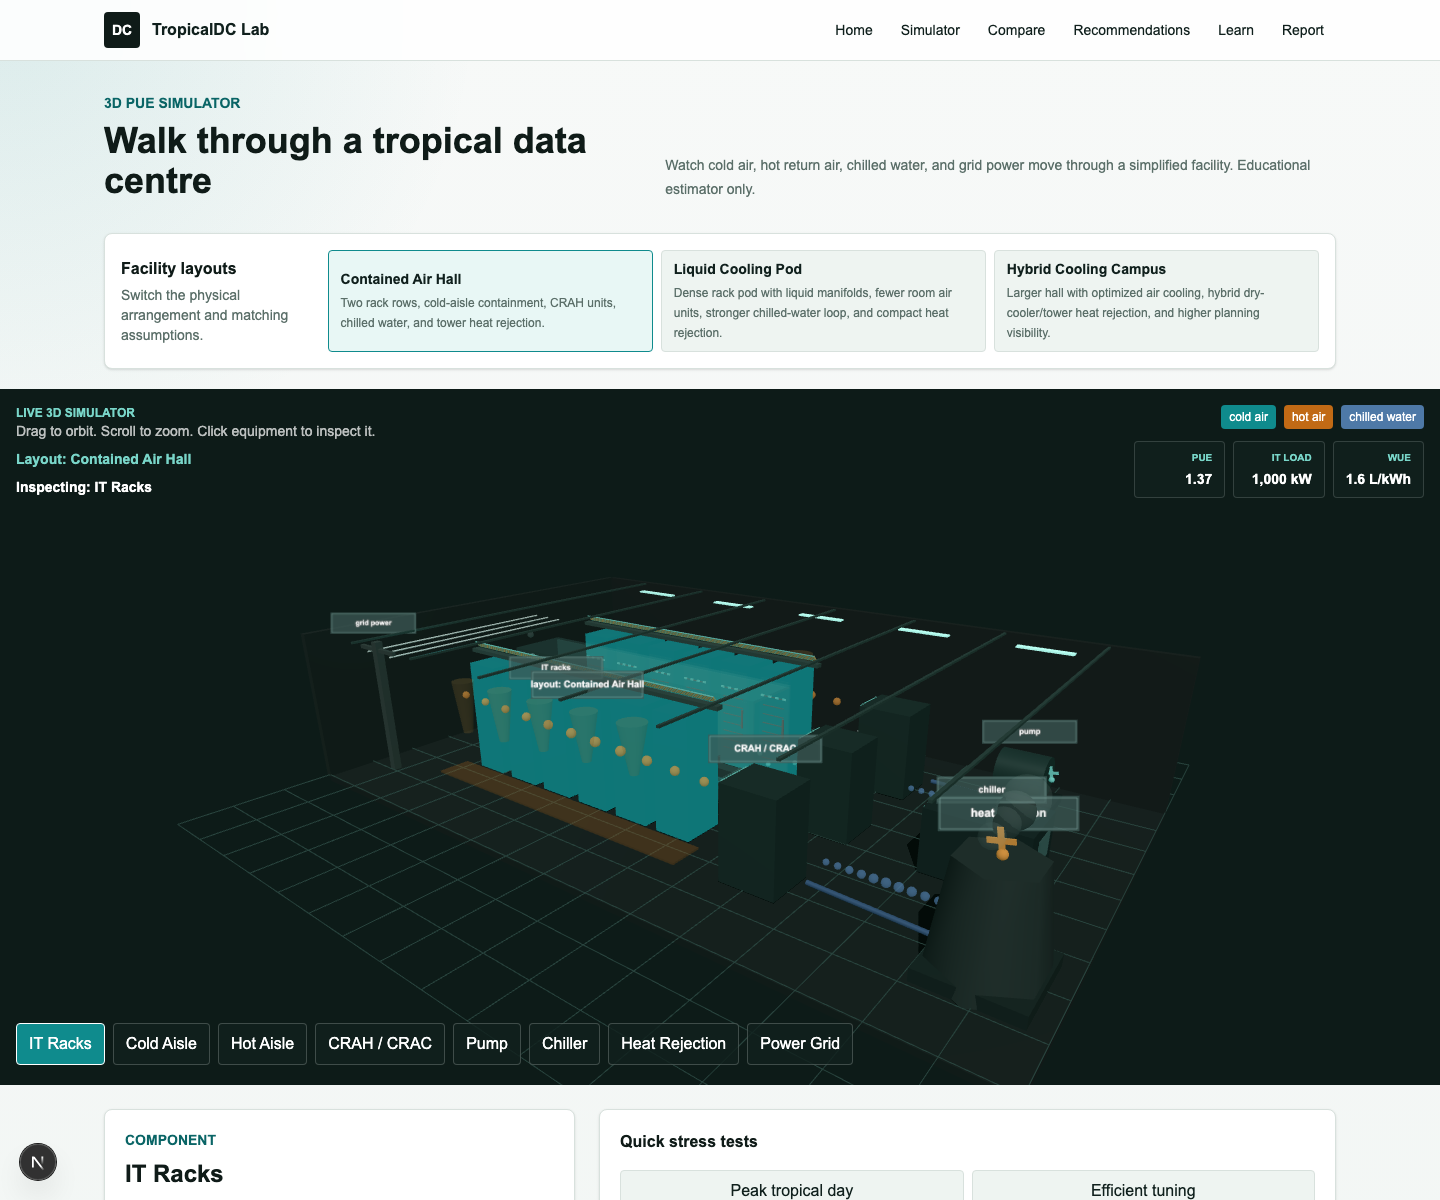
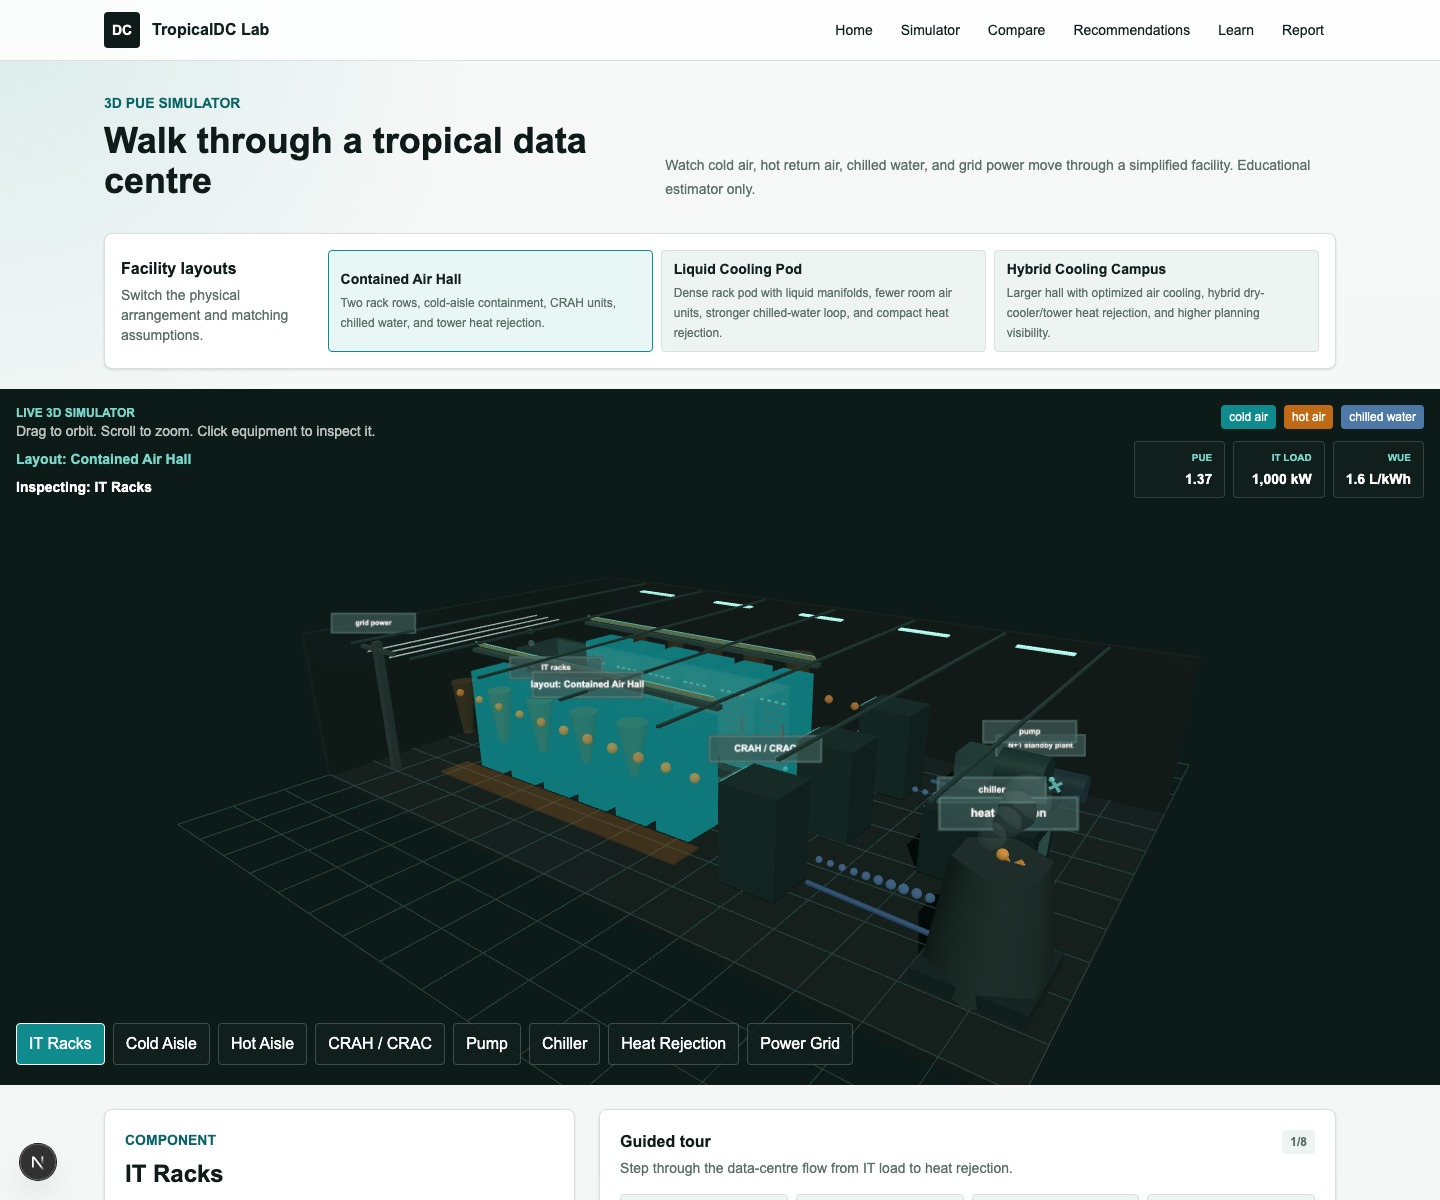
feat: add guided tour and parameter-driven geometry

diff --git a/components/simulator/DataCenter3DScene.tsx b/components/simulator/DataCenter3DScene.tsx
@@ -24,6 +24,8 @@ interface FlowParticle {
   kind: "cold" | "hot" | "water";
 }
 
+type GeometryInputs = Pick<SimulationInputs, "coolingType" | "rackDensityKw" | "redundancyLevel">;
+
 export type DataCenterLayoutKey = "contained_air_hall" | "liquid_cooling_pod" | "hybrid_cooling_campus";
 
 export const dataCenterLayouts: {
@@ -54,6 +56,7 @@ export function DataCenter3DScene({ activeKey, inputs, layoutKey, outputs, onSel
   const activeKeyRef = useRef(activeKey);
   const inputsRef = useRef(inputs);
   const outputsRef = useRef(outputs);
+  const { coolingType, rackDensityKw, redundancyLevel } = inputs;
 
   useEffect(() => {
     onSelectRef.current = onSelect;
@@ -68,6 +71,7 @@ export function DataCenter3DScene({ activeKey, inputs, layoutKey, outputs, onSel
       return;
     }
     const layout = dataCenterLayouts.find((item) => item.key === layoutKey) ?? dataCenterLayouts[0];
+    const geometryInputs: GeometryInputs = { coolingType, rackDensityKw, redundancyLevel };
 
     const scene = new THREE.Scene();
     scene.background = new THREE.Color(0x0d1b18);
@@ -116,10 +120,10 @@ export function DataCenter3DScene({ activeKey, inputs, layoutKey, outputs, onSel
     };
 
     buildRoom(scene, layoutKey);
-    buildRackRows(scene, register, layoutKey);
+    buildRackRows(scene, register, layoutKey, geometryInputs);
     buildAisles(scene, register, thermalPlumes, layoutKey);
-    buildCoolingUnits(scene, register, fans, layoutKey);
-    buildPlant(scene, register, fans, layoutKey);
+    buildCoolingUnits(scene, register, fans, layoutKey, geometryInputs);
+    buildPlant(scene, register, fans, layoutKey, geometryInputs);
     buildGrid(scene, register, pulses);
     buildFlow(scene, flowParticles, layoutKey);
     buildLoopPipes(scene, layoutKey);
@@ -268,7 +272,7 @@ export function DataCenter3DScene({ activeKey, inputs, layoutKey, outputs, onSel
       });
       mount.removeChild(renderer.domElement);
     };
-  }, [layoutKey]);
+  }, [coolingType, rackDensityKw, redundancyLevel, layoutKey]);
 
   const activeComponent = schematicComponents.find((component) => component.key === activeKey) ?? schematicComponents[0];
 
@@ -440,37 +444,46 @@ function buildRoom(scene: THREE.Scene, layoutKey: DataCenterLayoutKey) {
   }
 }
 
-function buildRackRows(scene: THREE.Scene, register: (object: THREE.Object3D, key: ComponentKey) => void, layoutKey: DataCenterLayoutKey) {
+function buildRackRows(
+  scene: THREE.Scene,
+  register: (object: THREE.Object3D, key: ComponentKey) => void,
+  layoutKey: DataCenterLayoutKey,
+  inputs: GeometryInputs,
+) {
   const rackGroup = new THREE.Group();
   const rackMaterial = new THREE.MeshStandardMaterial({ color: 0x111f1d, roughness: 0.45, metalness: 0.4 });
   const doorMaterial = new THREE.MeshStandardMaterial({ color: 0x233834, roughness: 0.35, metalness: 0.55 });
   const ledMaterial = new THREE.MeshStandardMaterial({ color: 0x79d6c9, emissive: 0x0f8b8d, emissiveIntensity: 0.5 });
+  const densityRatio = THREE.MathUtils.clamp(inputs.rackDensityKw / 50, 0.1, 1);
+  const rackHeight = 2.1 + densityRatio * 0.72;
+  const rackDepth = inputs.coolingType === "direct_to_chip_liquid_cooling" ? 1.05 : 0.9;
 
-  const rackRows = layoutKey === "liquid_cooling_pod" ? [-2.2, -0.75, 0.75, 2.2] : layoutKey === "hybrid_cooling_campus" ? [-2.25, 0, 2.25] : [-1.7, 1.7];
-  const rackCount = layoutKey === "liquid_cooling_pod" ? 4 : layoutKey === "hybrid_cooling_campus" ? 7 : 6;
+  const rackRows = layoutKey === "liquid_cooling_pod" || inputs.rackDensityKw >= 30 ? [-2.2, -0.75, 0.75, 2.2] : layoutKey === "hybrid_cooling_campus" ? [-2.25, 0, 2.25] : [-1.7, 1.7];
+  const rackCount = layoutKey === "liquid_cooling_pod" ? 4 : layoutKey === "hybrid_cooling_campus" ? 7 : inputs.rackDensityKw >= 30 ? 5 : 6;
   const rackStart = layoutKey === "hybrid_cooling_campus" ? -5.55 : layoutKey === "liquid_cooling_pod" ? -4.75 : -4.9;
   const rackSpacing = layoutKey === "hybrid_cooling_campus" ? 0.92 : 1.05;
 
   rackRows.forEach((z) => {
     for (let i = 0; i < rackCount; i += 1) {
       const rack = new THREE.Group();
-      const body = new THREE.Mesh(new THREE.BoxGeometry(0.78, 2.4, 0.9), rackMaterial.clone());
+      const body = new THREE.Mesh(new THREE.BoxGeometry(0.78, rackHeight, rackDepth), rackMaterial.clone());
       body.castShadow = true;
       body.receiveShadow = true;
       register(body, "racks");
       rack.add(body);
 
-      const door = new THREE.Mesh(new THREE.BoxGeometry(0.68, 2.05, 0.04), doorMaterial.clone());
-      door.position.set(0, 0, z < 0 ? 0.47 : -0.47);
+      const door = new THREE.Mesh(new THREE.BoxGeometry(0.68, rackHeight - 0.35, 0.04), doorMaterial.clone());
+      door.position.set(0, 0, z < 0 ? rackDepth / 2 + 0.02 : -rackDepth / 2 - 0.02);
       register(door, "racks");
       rack.add(door);
 
-      for (let slatIndex = 0; slatIndex < 8; slatIndex += 1) {
+      const slatCount = inputs.rackDensityKw >= 30 ? 11 : 8;
+      for (let slatIndex = 0; slatIndex < slatCount; slatIndex += 1) {
         const slat = new THREE.Mesh(
           new THREE.BoxGeometry(0.52, 0.018, 0.018),
           new THREE.MeshStandardMaterial({ color: 0x6f8881, emissive: 0x0f8b8d, emissiveIntensity: 0.08 }),
         );
-        slat.position.set(0, -0.76 + slatIndex * 0.2, z < 0 ? 0.5 : -0.5);
+        slat.position.set(0, -rackHeight / 2 + 0.35 + slatIndex * ((rackHeight - 0.7) / slatCount), z < 0 ? rackDepth / 2 + 0.05 : -rackDepth / 2 - 0.05);
         rack.add(slat);
       }
 
@@ -478,16 +491,26 @@ function buildRackRows(scene: THREE.Scene, register: (object: THREE.Object3D, ke
         new THREE.BoxGeometry(0.04, 0.42, 0.035),
         new THREE.MeshStandardMaterial({ color: 0xdbe7e2, roughness: 0.35, metalness: 0.7 }),
       );
-      handle.position.set(0.26, 0, z < 0 ? 0.52 : -0.52);
+      handle.position.set(0.26, 0, z < 0 ? rackDepth / 2 + 0.07 : -rackDepth / 2 - 0.07);
       rack.add(handle);
 
       for (let ledIndex = 0; ledIndex < 4; ledIndex += 1) {
         const led = new THREE.Mesh(new THREE.BoxGeometry(0.08, 0.04, 0.03), ledMaterial.clone());
-        led.position.set(-0.27 + ledIndex * 0.18, 0.65, z < 0 ? 0.51 : -0.51);
+        led.position.set(-0.27 + ledIndex * 0.18, rackHeight / 2 - 0.45, z < 0 ? rackDepth / 2 + 0.08 : -rackDepth / 2 - 0.08);
         rack.add(led);
       }
 
-      rack.position.set(rackStart + i * rackSpacing, 1.2, z);
+      if (inputs.coolingType === "direct_to_chip_liquid_cooling") {
+        const rearDoor = new THREE.Mesh(
+          new THREE.BoxGeometry(0.72, rackHeight - 0.25, 0.08),
+          new THREE.MeshStandardMaterial({ color: 0x1f3f54, emissive: 0x4e79a7, emissiveIntensity: 0.18, transparent: true, opacity: 0.72 }),
+        );
+        rearDoor.position.set(0, 0, z < 0 ? -rackDepth / 2 - 0.08 : rackDepth / 2 + 0.08);
+        register(rearDoor, "racks");
+        rack.add(rearDoor);
+      }
+
+      rack.position.set(rackStart + i * rackSpacing, rackHeight / 2, z);
       rackGroup.add(rack);
     }
   });
@@ -509,9 +532,10 @@ function buildRackRows(scene: THREE.Scene, register: (object: THREE.Object3D, ke
     }
   });
 
-  if (layoutKey === "liquid_cooling_pod") {
+  if (layoutKey === "liquid_cooling_pod" || inputs.coolingType === "direct_to_chip_liquid_cooling") {
     const manifoldMaterial = new THREE.MeshStandardMaterial({ color: 0x4e79a7, emissive: 0x4e79a7, emissiveIntensity: 0.32, roughness: 0.3, metalness: 0.35 });
-    [-2.85, 2.85].forEach((z) => {
+    const manifoldRows = rackRows.length > 2 ? [-2.85, 2.85] : [-2.25, 2.25];
+    manifoldRows.forEach((z) => {
       const manifold = new THREE.Mesh(new THREE.CylinderGeometry(0.055, 0.055, 5.1, 16), manifoldMaterial.clone());
       manifold.rotation.z = Math.PI / 2;
       manifold.position.set(-3.2, 1.9, z);
@@ -609,14 +633,16 @@ function buildCoolingUnits(
   register: (object: THREE.Object3D, key: ComponentKey) => void,
   fans: THREE.Object3D[],
   layoutKey: DataCenterLayoutKey,
+  inputs: GeometryInputs,
 ) {
   const unitMaterial = new THREE.MeshStandardMaterial({ color: 0x29443e, roughness: 0.48, metalness: 0.25 });
   const fanMaterial = new THREE.MeshStandardMaterial({ color: 0x79d6c9, emissive: 0x0f8b8d, emissiveIntensity: 0.32 });
-  const unitPositions = layoutKey === "liquid_cooling_pod" ? [-2.1, 2.1] : layoutKey === "hybrid_cooling_campus" ? [-3, -1, 1, 3] : [-2.4, 0, 2.4];
+  const liquidMode = inputs.coolingType === "direct_to_chip_liquid_cooling";
+  const unitPositions = liquidMode ? [-2.1, 2.1] : layoutKey === "hybrid_cooling_campus" ? [-3, -1, 1, 3] : [-2.4, 0, 2.4];
 
   unitPositions.forEach((z) => {
     const crah = new THREE.Group();
-    const body = new THREE.Mesh(new THREE.BoxGeometry(layoutKey === "liquid_cooling_pod" ? 0.85 : 1.1, layoutKey === "liquid_cooling_pod" ? 1.35 : 1.8, 1.0), unitMaterial.clone());
+    const body = new THREE.Mesh(new THREE.BoxGeometry(liquidMode ? 0.85 : 1.1, liquidMode ? 1.35 : 1.8, 1.0), unitMaterial.clone());
     body.castShadow = true;
     body.receiveShadow = true;
     register(body, "crah");
@@ -645,11 +671,11 @@ function buildCoolingUnits(
     fans.push(fan);
     crah.add(fan);
 
-    crah.position.set(layoutKey === "hybrid_cooling_campus" ? 3.15 : 2.55, layoutKey === "liquid_cooling_pod" ? 0.7 : 0.9, z);
+    crah.position.set(layoutKey === "hybrid_cooling_campus" ? 3.15 : 2.55, liquidMode ? 0.7 : 0.9, z);
     scene.add(crah);
   });
 
-  if (layoutKey === "liquid_cooling_pod") {
+  if (liquidMode) {
     const cduMaterial = new THREE.MeshStandardMaterial({ color: 0x1f3f54, emissive: 0x4e79a7, emissiveIntensity: 0.2, roughness: 0.38, metalness: 0.3 });
     [-1.2, 1.2].forEach((z) => {
       const cdu = new THREE.Mesh(new THREE.BoxGeometry(0.9, 1.1, 0.8), cduMaterial.clone());
@@ -661,7 +687,7 @@ function buildCoolingUnits(
     scene.add(createLabel("liquid CDU", 1.35, 1.55, 1.2));
   }
 
-  scene.add(createLabel(layoutKey === "liquid_cooling_pod" ? "trim air units" : "CRAH / CRAC", layoutKey === "hybrid_cooling_campus" ? 3.15 : 2.55, 2.35, 2.4));
+  scene.add(createLabel(liquidMode ? "trim air units" : "CRAH / CRAC", layoutKey === "hybrid_cooling_campus" ? 3.15 : 2.55, 2.35, 2.4));
 }
 
 function buildPlant(
@@ -669,6 +695,7 @@ function buildPlant(
   register: (object: THREE.Object3D, key: ComponentKey) => void,
   fans: THREE.Object3D[],
   layoutKey: DataCenterLayoutKey,
+  inputs: GeometryInputs,
 ) {
   const pump = new THREE.Group();
   const pumpBody = new THREE.Mesh(
@@ -759,6 +786,48 @@ function buildPlant(
   }
   tower.position.set(layoutKey === "liquid_cooling_pod" ? 6.0 : 6.4, 0, layoutKey === "liquid_cooling_pod" ? 2.1 : 2.6);
   scene.add(tower);
+
+  if (inputs.redundancyLevel !== "N") {
+    const standbyCount = inputs.redundancyLevel === "2N" ? 2 : 1;
+    for (let index = 0; index < standbyCount; index += 1) {
+      const offset = index * 0.72;
+      const standbyChiller = new THREE.Mesh(
+        new THREE.BoxGeometry(1.25, 0.86, 0.82),
+        new THREE.MeshStandardMaterial({
+          color: 0x31443f,
+          emissive: 0x79d6c9,
+          emissiveIntensity: 0.08,
+          transparent: true,
+          opacity: inputs.redundancyLevel === "2N" ? 0.9 : 0.62,
+          roughness: 0.45,
+          metalness: 0.24,
+        }),
+      );
+      standbyChiller.position.set(4.35 + offset, 0.43, -3.35);
+      standbyChiller.castShadow = true;
+      register(standbyChiller, "chiller");
+      scene.add(standbyChiller);
+
+      const standbyPump = new THREE.Mesh(
+        new THREE.CylinderGeometry(0.28, 0.28, 0.72, 24),
+        new THREE.MeshStandardMaterial({
+          color: 0x31544d,
+          emissive: 0x4e79a7,
+          emissiveIntensity: 0.08,
+          transparent: true,
+          opacity: inputs.redundancyLevel === "2N" ? 0.9 : 0.62,
+          roughness: 0.38,
+          metalness: 0.38,
+        }),
+      );
+      standbyPump.rotation.z = Math.PI / 2;
+      standbyPump.position.set(5.85 + offset, 0.55, -3.35);
+      standbyPump.castShadow = true;
+      register(standbyPump, "pump");
+      scene.add(standbyPump);
+    }
+    scene.add(createLabel(`${inputs.redundancyLevel} standby plant`, 5.25, 1.25, -3.35));
+  }
 
   if (layoutKey === "hybrid_cooling_campus") {
     const dryCoolerMaterial = new THREE.MeshStandardMaterial({ color: 0x2a403b, roughness: 0.44, metalness: 0.25 });

diff --git a/app/simulator/SimulatorClient.tsx b/app/simulator/SimulatorClient.tsx
@@ -10,14 +10,33 @@ import { ComponentInfoPanel, type ComponentKey } from "@/components/simulator/Da
 import { MetricCards } from "@/components/simulator/MetricCards";
 import { EnergyBreakdownChart } from "@/components/charts/EnergyBreakdownChart";
 
+const tourOrder: ComponentKey[] = ["racks", "coldAisle", "hotAisle", "crah", "pump", "chiller", "tower", "grid"];
+
 export default function SimulatorClient() {
   const [inputs, setInputs] = useState<SimulationInputs>(defaultInputs);
   const [activeComponent, setActiveComponent] = useState<ComponentKey>("racks");
   const [layoutKey, setLayoutKey] = useState<DataCenterLayoutKey>("contained_air_hall");
+  const [tourActive, setTourActive] = useState(false);
   const outputs = useMemo(() => calculateSimulation(inputs), [inputs]);
+  const tourIndex = Math.max(0, tourOrder.indexOf(activeComponent));
+  const setSelectedComponent = (component: ComponentKey) => {
+    setActiveComponent(component);
+  };
+  const startTour = () => {
+    setTourActive(true);
+    setSelectedComponent("racks");
+  };
+  const stopTour = () => {
+    setTourActive(false);
+  };
+  const stepTour = (direction: 1 | -1) => {
+    setTourActive(true);
+    const nextIndex = (tourIndex + direction + tourOrder.length) % tourOrder.length;
+    setSelectedComponent(tourOrder[nextIndex]);
+  };
   const applyLayout = (nextLayout: DataCenterLayoutKey) => {
     setLayoutKey(nextLayout);
-    setActiveComponent("racks");
+    setSelectedComponent("racks");
 
     if (nextLayout === "contained_air_hall") {
       setInputs({
@@ -152,7 +171,7 @@ export default function SimulatorClient() {
         </div>
       </div>
 
-      <DataCenter3DScene activeKey={activeComponent} inputs={inputs} layoutKey={layoutKey} onSelect={setActiveComponent} outputs={outputs} />
+      <DataCenter3DScene activeKey={activeComponent} inputs={inputs} layoutKey={layoutKey} onSelect={setSelectedComponent} outputs={outputs} />
 
       <div className="mx-auto grid max-w-7xl gap-6 px-4 py-6 sm:px-6 xl:grid-cols-[0.78fr_1.22fr]">
         <section className="space-y-5">
@@ -160,6 +179,25 @@ export default function SimulatorClient() {
           <EnergyBreakdownChart outputs={outputs} />
         </section>
         <aside className="space-y-5">
+          <div className="rounded-lg border border-[var(--line)] bg-white p-5 shadow-sm">
+            <div className="flex items-start justify-between gap-3">
+              <div>
+                <h2 className="text-base font-semibold text-[var(--ink)]">Guided tour</h2>
+                <p className="mt-1 text-sm text-[var(--muted)]">
+                  Step through the data-centre flow from IT load to heat rejection.
+                </p>
+              </div>
+              <span className={`rounded px-2 py-1 text-xs font-semibold ${tourActive ? "bg-[#e8f7f5] text-[var(--accent-strong)]" : "bg-[var(--panel-strong)] text-[var(--muted)]"}`}>
+                {tourIndex + 1}/{tourOrder.length}
+              </span>
+            </div>
+            <div className="mt-4 grid grid-cols-2 gap-2 sm:grid-cols-4">
+              <QuickButton label={tourActive ? "Restart tour" : "Start tour"} onClick={startTour} />
+              <QuickButton label="Previous" onClick={() => stepTour(-1)} />
+              <QuickButton label="Next" onClick={() => stepTour(1)} />
+              <QuickButton label="Stop" onClick={stopTour} />
+            </div>
+          </div>
           <div className="rounded-lg border border-[var(--line)] bg-white p-5 shadow-sm">
             <h2 className="text-base font-semibold text-[var(--ink)]">Quick stress tests</h2>
             <div className="mt-4 grid grid-cols-2 gap-2">

diff --git a/tests/e2e/app.spec.ts b/tests/e2e/app.spec.ts
@@ -28,6 +28,11 @@ test("simulator renders the 3D data centre and updates controls", async ({ page 
   await expect(page.getByLabel("Rack Density")).toHaveValue("50");
   await expect.poll(() => canvasHasRenderedPixels(page)).toBe(true);
 
+  await page.getByRole("button", { name: "Start tour" }).click();
+  await expect(page.getByText("Inspecting: IT Racks")).toBeVisible();
+  await page.getByRole("button", { exact: true, name: "Next" }).click();
+  await expect(page.getByText("Inspecting: Cold Aisle")).toBeVisible();
+
   await page.getByRole("button", { name: "Peak tropical day" }).click();
   await expect(page.getByText("4,200 kW").first()).toBeVisible();
   await expect(page.getByText("Overhead delta")).toBeVisible();

diff --git a/README.md b/README.md
@@ -15,6 +15,8 @@ Singapore-like tropical operating conditions make data-centre cooling harder. Hi
 - Interactive 3D PUE simulator with orbit, zoom, guided equipment focus, animated flows, and selectable cooling assumptions.
 - Viewable facility layouts: contained air hall, high-density liquid-cooling pod, and hybrid cooling campus.
 - Clickable 3D equipment for racks, aisles, CRAH/CRAC, pumps, chillers, heat rejection, and grid power.
+- Guided tour mode that steps through the data-centre flow from IT racks to grid power.
+- Parameter-driven 3D geometry for rack density, liquid cooling equipment, and redundancy level.
 - Live metric cards for IT load, facility overhead, PUE, WUE, annual energy, carbon, and water.
 - Scenario comparison for baseline air cooling, optimized tropical air cooling, and liquid-cooling-assisted designs.
 - Rule-based recommendations for efficiency, water, high-density racks, and redundancy trade-offs.